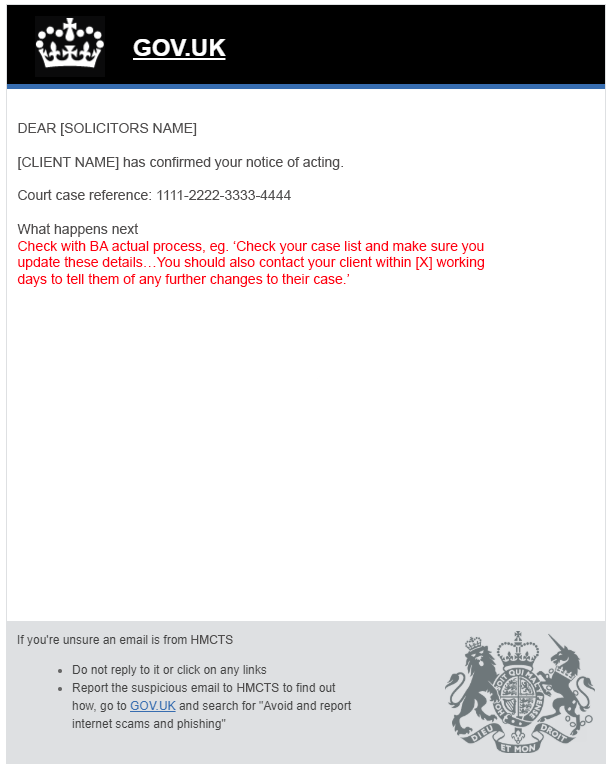
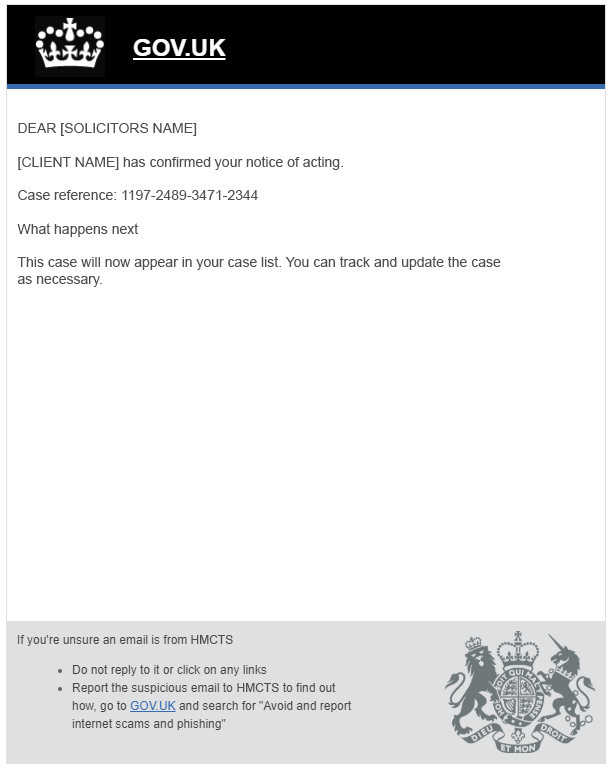
text changes

Changed region(s): [[0.0311, 0.3109, 0.8085, 0.3731], [0.0311, 0.2487, 0.4664, 0.2798]]

diff --git a/app/views/v3/cases/confirmation-portal.html b/app/views/v3/cases/confirmation-portal.html
@@ -13,7 +13,7 @@
  <div class="govuk-grid-row">
     <div class="govuk-grid-column-two-thirds">
           <h1 class="govuk-heading-xl">Confirm details of your legal representative</h1>
-          <p>You’re confirming that you give permission for this organisation to act on your behalf.</p>
+          <p>You’ve asked for this organisation to act on your behalf.</p>
 
     <h2 class="govuk-heading-m">Organisation details</h2>
       <form action="/v3/cases/notice-confirmation">
@@ -30,7 +30,7 @@
 
           <div class="govuk-summary-list__row">
             <dt class="govuk-summary-list__key">
-              Court case reference
+              Case reference
             </dt>
             <dd class="govuk-summary-list__value">
               1197-2489-3471-2344

diff --git a/app/views/v3/cases/confirmation-portal-success.html b/app/views/v3/cases/confirmation-portal-success.html
@@ -28,11 +28,11 @@
 
         <h2 class="govuk-heading-m">What happens next</h2>
 
-        <p style="color:red">
-          Check with BA if there’s any follow up actions, eg. ‘Your legal representative will contact you within [X WORKING DAYS]. Contact your legal representative for more information.’
+        <p>
+          Your case will now be shared with [SOLICITOR NAME]. Contact them directly if you have any questions about your case.
         </p>
 
-        <P>You can now close this window</P>
+        <P>You can now close this window.</P>
  
     </div>
   </div>

diff --git a/app/views/v3/cases/notice.html b/app/views/v3/cases/notice.html
@@ -25,7 +25,7 @@
 
                            <ul class="govuk-list govuk-list--bullet">
                    
-<li>court reference number</li>
+<li>case reference</li>
 <li>email address</li></ul>
 
           
@@ -34,7 +34,7 @@
 
            {{ govukInput({
               label: {
-                text: "Court reference number",
+                text: "Case reference",
                 classes: 'govuk-label--m'
                 },
                 hint: {

diff --git a/app/views/v3/cases/notice-confirmation.html b/app/views/v3/cases/notice-confirmation.html
@@ -18,7 +18,7 @@
 
      
        <p class="govuk-body"> 
-       Your client will receive an email from HM Courts & Tribunals Service asking them to confirm they’re happy for you to act on their behalf. 
+       Your client will receive an email from HM Courts & Tribunals service to confirm they want you to act on their behalf.
       </p>
     <p><a href="index.html">Back to your cases</a></p>
     </div>
